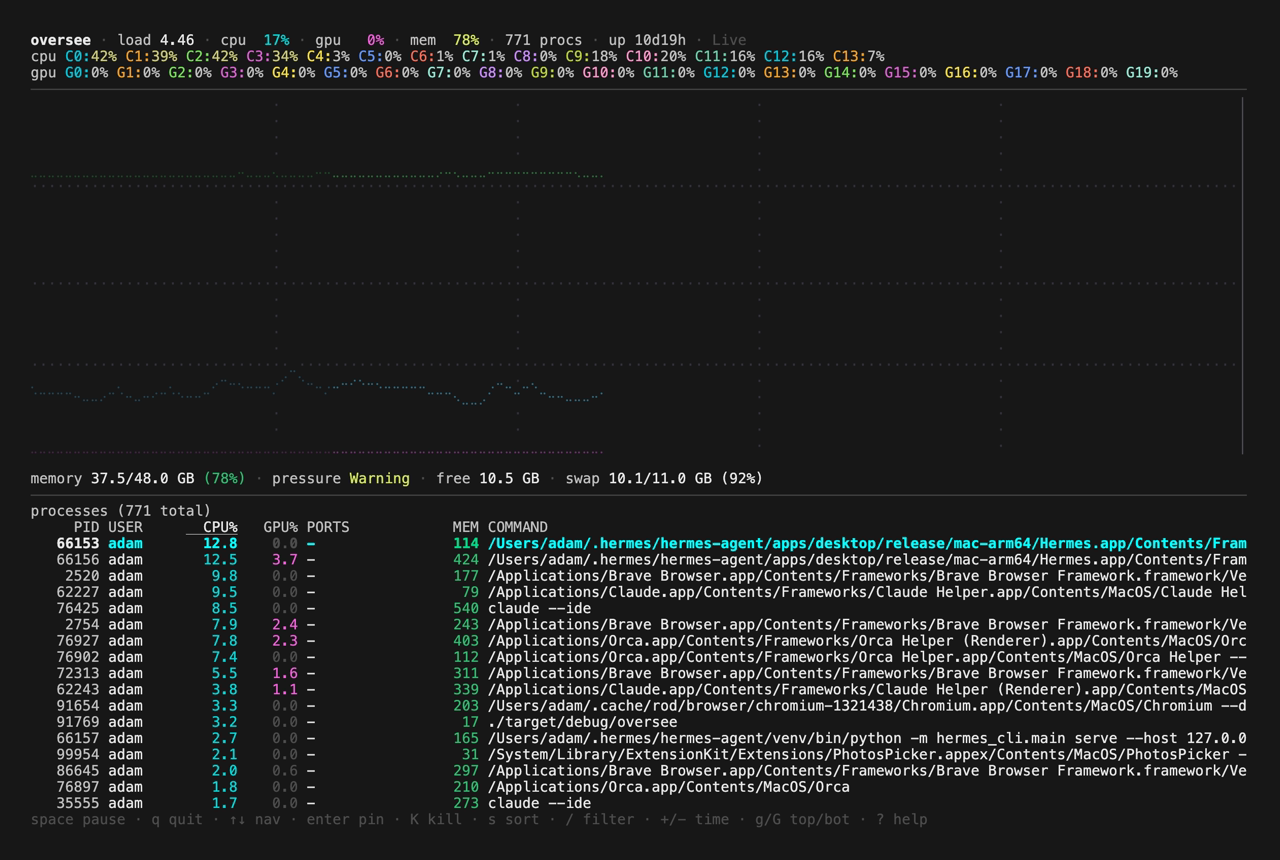
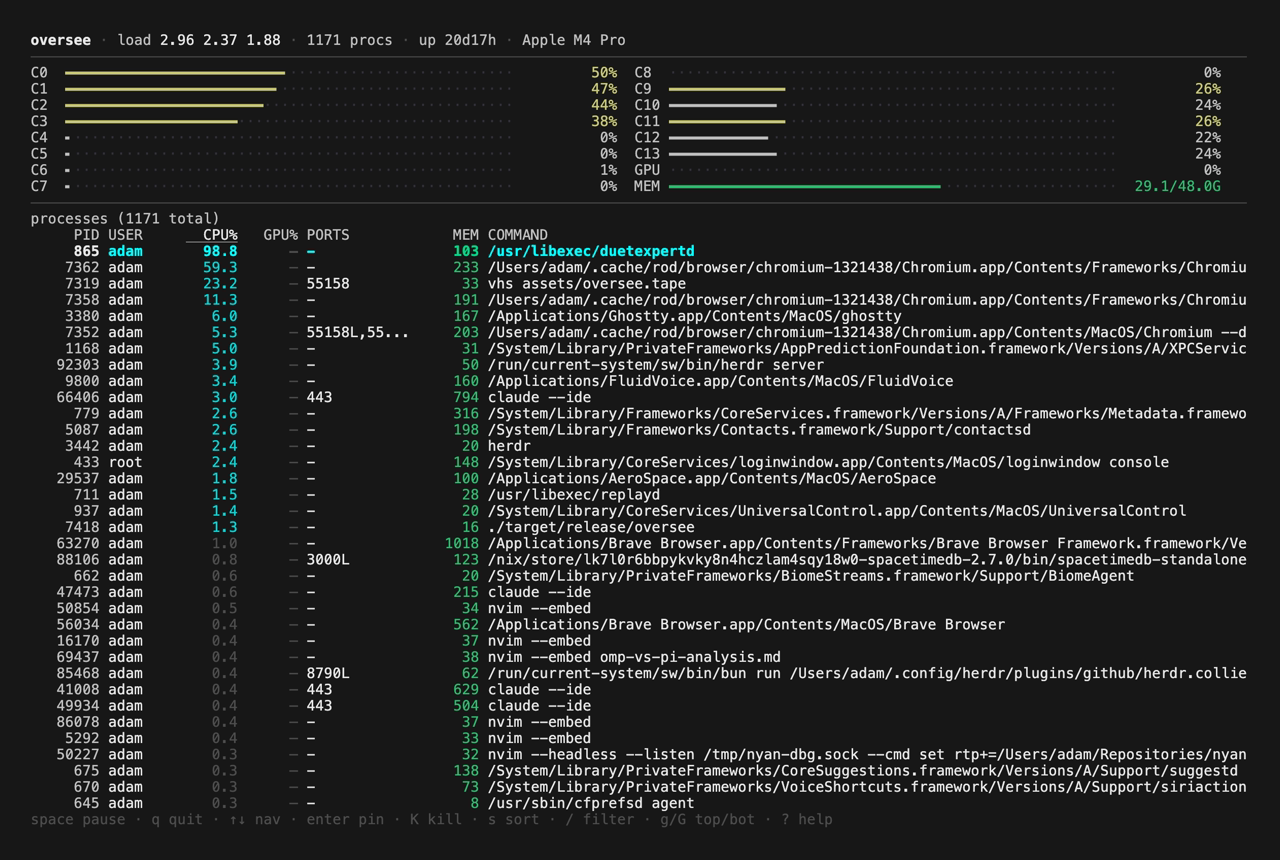
docs: regenerate README and vhs assets for bar meter UI

diff --git a/README.md b/README.md
@@ -7,28 +7,19 @@ Why? I wanted to view cpu AND gpu cores. I wanted memory pressure and not just u
 
 - **Process Management**: Detailed process list with CPU, memory usage, ports, and user information
 - **GPU Monitoring**: Real-time GPU utilisation via powermetrics (requires sudo)
-- **Timeline Visualisation**: Smooth braille character graphs showing system activity over time
-- **Toggleable Timeline**: Press `Tab` to cycle the graph between an overview, per-core CPU, GPU, and memory usage/pressure
-- **Memory Pressure**: Green/Yellow/Red pressure indicators matching Activity Monitor
+- **htop-style Bar Meters**: one bar per CPU core, plus GPU, memory, and swap — load-gradient coloured, in a responsive column grid
+- **Memory Pressure**: the MEM/SWP bars are coloured green/yellow/red to match Activity Monitor's pressure levels
 - **Smart Filtering**: Press `/` to filter processes by name, port or user (vim-style)
 - **Vim-style controls**: `j/k` for navigation, `g/G` for top/bottom, `/` for search
 
-### Timeline Views
+### Bar Meters
 
-`Tab` (or `t`) cycles the main graph through four metrics:
+Every CPU core gets its own meter, followed by the system-wide GPU figure and
+memory/swap. Bar colour tracks load (dim → yellow → orange → red); the MEM and
+SWP bars are coloured by memory pressure instead. Press `?` in the app for the
+full colour key.
 
-- **Overview** (default): CPU average, GPU overall, and memory usage overlaid — the classic combined view.
-- **CPU**: every core as its own colour-coded trace. The per-core labels in the header share the same colours, so the header doubles as a legend.
-- **GPU**: system-wide GPU utilisation on its own scale (needs sudo for real data). There is no per-core breakdown — macOS doesn't publish one.
-- **Memory**: usage over time, tinted green/yellow/red by the memory pressure recorded at each moment.
-
-![Per-core CPU timeline](assets/cpu.png)
-
-![Memory usage tinted by pressure](assets/memory.png)
-
-![Cycling through the timeline views](assets/demo.gif)
-
-`+`/`-` scroll the graph back through up to 15 minutes of history.
+![Filtering and the help popup](assets/demo.gif)
 
 > Screenshots are generated from [`assets/oversee.tape`](assets/oversee.tape) with [vhs](https://github.com/charmbracelet/vhs): `vhs assets/oversee.tape`.
 
@@ -112,9 +103,7 @@ Without sudo, GPU metrics will show 0% (requires access to powermetrics).
 - `Page Up/Down`, `Home/End`: Navigate by 10 / to first or last
 - `Enter`: Pin/unpin the selected process (shows its full command)
 - `s`: Cycle through sort modes
-- `v`: Toggle GPU visibility
-- `Tab` or `t`: Cycle the timeline metric (overview / CPU / GPU / memory)
-- `+/-`: Scroll the timeline through history (back up to 15 minutes)
+- `v`: Toggle the GPU bar
 - `K`: Kill the selected process (with confirmation)
 - `?`: Toggle the help popup
 
@@ -132,11 +121,11 @@ src/
 ├── main.rs          # Application entry point
 ├── app.rs           # Main application state and event handling
 ├── ui.rs            # Terminal UI rendering and layout
-├── cpu.rs           # CPU monitoring and history tracking
+├── cpu.rs           # CPU usage sampling
 ├── gpu.rs           # Apple Silicon GPU monitoring
 ├── memory.rs        # Memory pressure calculation and monitoring
 ├── process.rs       # Process enumeration with user resolution
-├── theme.rs         # Central colour palette (including per-core hues)
+├── theme.rs         # Central colour palette
 └── tui.rs           # Terminal initialisation and cleanup
 ```
 
